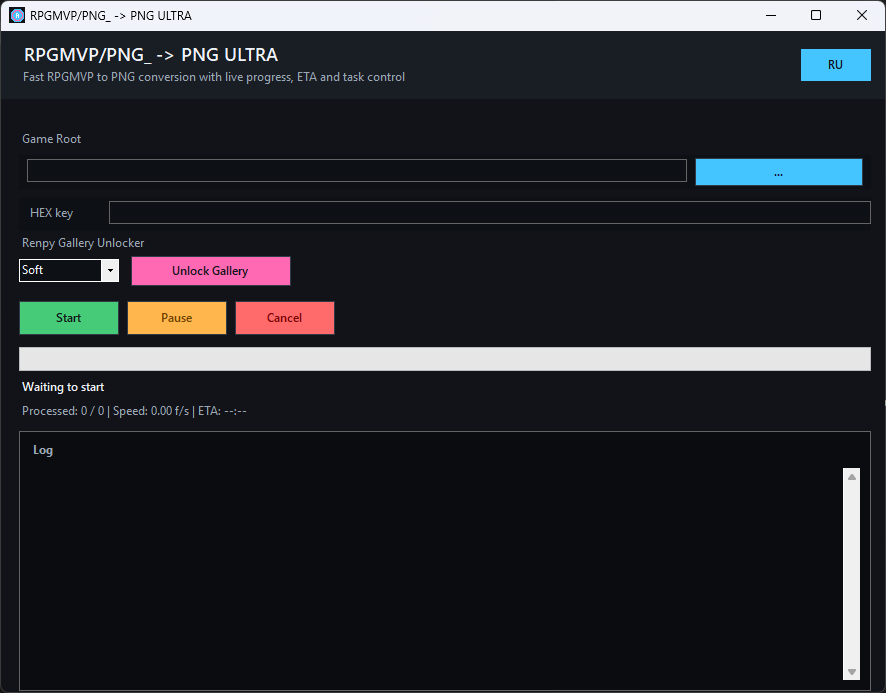
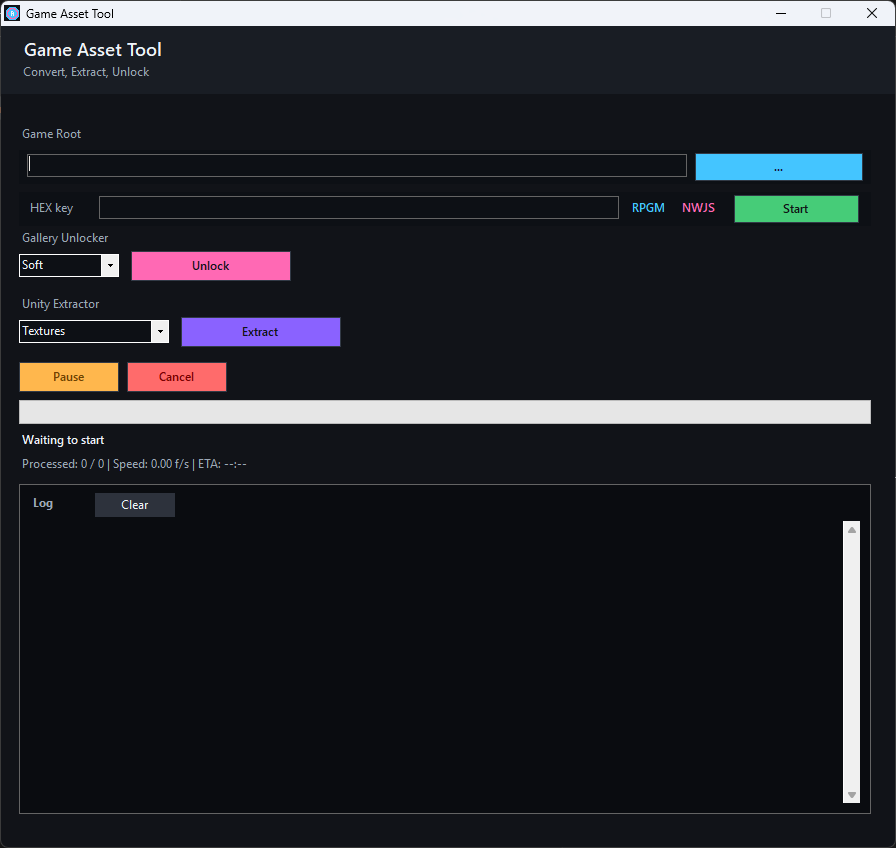
Cleanup and rename to Game Asset Tool
- Rename app to 'Game Asset Tool'
- Update README with screenshot
- Remove unnecessary files (.csproj, generate_unlocker.ps1, unlocker_*.json)
- Remove GitHub workflows
- New layout: HEX key row with RPGM/NWJS labels and Start button
- Pause/Cancel above progress bar

diff --git a/RpgmvpConverterForm.cs b/RpgmvpConverterForm.cs
@@ -84,7 +84,7 @@ namespace RpgmvpConverterWinForms
             Font titleFont = new Font("Segoe UI Semibold", 13f, FontStyle.Regular);
             Font logFont = new Font("Consolas", 10f, FontStyle.Regular);
 
-            Text = "RPGMVP/PNG_ -> PNG ULTRA";
+            Text = "Game Asset Tool";
             StartPosition = FormStartPosition.CenterScreen;
             MinimumSize = new Size(900, 850);
             Size = new Size(900, 850);
@@ -106,7 +106,7 @@ namespace RpgmvpConverterWinForms
 
             titleLabel = new Label
             {
-                Text = "RPGMVP/PNG_ -> PNG ULTRA",
+                Text = "Game Asset Tool",
                 Font = titleFont,
                 ForeColor = textColor,
                 Location = new Point(18, 10),
@@ -117,7 +117,7 @@ namespace RpgmvpConverterWinForms
 
             subtitleLabel = new Label
             {
-                Text = "Fast conversion + Unity Extractor + Unlocker",
+                Text = "Convert, Extract, Unlock",
                 ForeColor = mutedColor,
                 Location = new Point(19, 38),
                 Size = new Size(500, 20),
@@ -167,22 +167,6 @@ namespace RpgmvpConverterWinForms
 
             y += 42;
 
-            startButton = CreateButton("Start", new Point(18, y), new Size(100, 34), successColor, formBack, uiBold);
-            startButton.Click += async delegate { await StartConversionAsync(); };
-            Controls.Add(startButton);
-
-            pauseButton = CreateButton("Pause", new Point(126, y), new Size(100, 34), warningColor, Color.Black, uiBold);
-            pauseButton.Enabled = false;
-            pauseButton.Click += delegate { TogglePause(); };
-            Controls.Add(pauseButton);
-
-            cancelButton = CreateButton("Cancel", new Point(234, y), new Size(100, 34), dangerColor, textColor, uiBold);
-            cancelButton.Enabled = false;
-            cancelButton.Click += delegate { CancelConversion(); };
-            Controls.Add(cancelButton);
-
-            y += 42;
-
             Panel keyPanel = new Panel
             {
                 Location = new Point(18, y),
@@ -197,7 +181,7 @@ namespace RpgmvpConverterWinForms
             {
                 Text = "HEX key",
                 Location = new Point(8, 8),
-                Size = new Size(80, 20),
+                Size = new Size(70, 20),
                 ForeColor = mutedColor,
                 BackColor = Color.Transparent
             };
@@ -205,8 +189,8 @@ namespace RpgmvpConverterWinForms
 
             keyBox = new TextBox
             {
-                Location = new Point(90, 4),
-                Size = new Size(660, 26),
+                Location = new Point(80, 4),
+                Size = new Size(520, 26),
                 BackColor = inputBack,
                 ForeColor = textColor,
                 BorderStyle = BorderStyle.FixedSingle,
@@ -217,7 +201,7 @@ namespace RpgmvpConverterWinForms
             engineRpgmLabel = new Label
             {
                 Text = "RPGM",
-                Location = new Point(755, 8),
+                Location = new Point(610, 8),
                 Size = new Size(45, 20),
                 ForeColor = Color.FromArgb(68, 197, 255),
                 BackColor = Color.Transparent,
@@ -228,13 +212,17 @@ namespace RpgmvpConverterWinForms
             engineNwjsLabel = new Label
             {
                 Text = "NWJS",
-                Location = new Point(805, 8),
+                Location = new Point(660, 8),
                 Size = new Size(45, 20),
                 ForeColor = Color.FromArgb(255, 105, 180),
                 BackColor = Color.Transparent,
                 Font = uiBold
             };
             keyPanel.Controls.Add(engineNwjsLabel);
+
+            startButton = CreateButton("Start", new Point(715, 3), new Size(125, 28), successColor, formBack, uiBold);
+            startButton.Click += async delegate { await StartConversionAsync(); };
+            keyPanel.Controls.Add(startButton);
 
             y += 38;
 
@@ -300,6 +288,18 @@ namespace RpgmvpConverterWinForms
             Controls.Add(unityExtractButton);
 
             y += 42;
+
+            pauseButton = CreateButton("Pause", new Point(18, y), new Size(100, 30), warningColor, Color.Black, uiBold);
+            pauseButton.Enabled = false;
+            pauseButton.Click += delegate { TogglePause(); };
+            Controls.Add(pauseButton);
+
+            cancelButton = CreateButton("Cancel", new Point(126, y), new Size(100, 30), dangerColor, textColor, uiBold);
+            cancelButton.Enabled = false;
+            cancelButton.Click += delegate { CancelConversion(); };
+            Controls.Add(cancelButton);
+
+            y += 38;
 
             progressBar = new ProgressBar
             {

diff --git a/README.md b/README.md
@@ -1,8 +1,10 @@
-# RPGMVP/PNG_ -> PNG ULTRA
+# Game Asset Tool
 
-Fast RPGMVP to PNG converter + **Unity Asset Extractor** + **Gallery Unlocker** with full **En/Ru localization**.
+![Screenshot](screenshot.png)
 
-![Version](https://img.shields.io/badge/version-1.1.0-blue)
+Fast converter for **RPGMVP**, **Unity** and **Gallery Unlocker** for **NWJS/Renpy** games.
+
+![Version](https://img.shields.io/badge/version-1.2.0-blue)
 ![.NET](https://img.shields.io/badge/.NET-4.0-blue)
 ![Python](https://img.shields.io/badge/Python-3.x-green)
 
@@ -11,7 +13,6 @@ Fast RPGMVP to PNG converter + **Unity Asset Extractor** + **Gallery Unlocker** 
 - **RPGMVP to PNG Conversion** - Fast conversion with live progress, ETA and task control (pause/cancel)
 - **Unity Asset Extractor** - Extract textures from Unity games (.assets, .bundle files)
 - **Gallery Unlocker** - Unlock galleries in Renpy/NWJS games
-- **En/Ru Localization** - Switch between English and Russian
 - **Auto-detection** - Automatically detects game type and root folder
 
 ## Requirements
@@ -28,14 +29,14 @@ pip install UnityPy
 
 ## Download
 
-**Full Version:** [RpgmvpConverterWinForms.exe](https://github.com/SANCHEI/Rpgm-NWJS-Renpy-Converter-tool/releases)
+**Full Version:** [GameAssetTool.exe](https://github.com/SANCHEI/Rpgm-NWJS-Renpy-Converter-tool/releases)
 
 For **Unity games only**, use the lighter version: [UnityAssetExtractor.exe](https://github.com/SANCHEI/Rpgm-NWJS-Renpy-Converter-tool/releases/tag/v1.1.0-unity)
 
 ## Supported Games
 
 ### RPG Maker MV/MZ
-- RPGMVP encryption (RPGM label)
+- RPGMVP encryption
 - Custom HEX key support
 - Auto key detection
 
@@ -46,7 +47,7 @@ For **Unity games only**, use the lighter version: [UnityAssetExtractor.exe](htt
 - Real-time progress with ETA
 
 ### Renpy/NWJS Games
-- Gallery unlocker (NWJS label)
+- Gallery unlocker
 - NWJS process detection
 
 ## Supported Engines
@@ -65,37 +66,18 @@ For **Unity games only**, use the lighter version: [UnityAssetExtractor.exe](htt
 ### Unity Extraction
 1. Select Unity game folder (auto-detected)
 2. Choose extraction mode: Textures / Videos / All
-3. Click "Extract Unity"
+3. Click "Extract"
 4. Find extracted files in `game_folder/extracted/`
 
 ### Gallery Unlocker
 1. Select game folder
-2. Choose game type: Renpy / NWJS
+2. Choose game type: Soft / Hard
 3. Click "Unlock"
 
 ## Keyboard Shortcuts
 
 - **Ctrl+A** in logs - Select all
 - **Ctrl+C** in logs - Copy selected
-
-## Screenshots
-
-```
-┌─────────────────────────────────────────────────────┐
-│  RPGMVP/PNG_ -> PNG ULTRA                           │
-│  Fast conversion + Unity Extractor + Unlocker        │
-├─────────────────────────────────────────────────────┤
-│  Game Root: [D:\Games\MyGame            ] [G] [...] │
-│  HEX key:   [xxxxxxxxxxxxxxxx        ] RPGM NWJS  │
-│  [▶ Start]  [⏸ Pause]  [✕ Cancel]                   │
-├─────────────────────────────────────────────────────┤
-│  Renpy Gallery Unlocker: [Renpy ▾] [Unlock]        │
-│  Unity Asset Extractor: [Textures ▾] [Extract]     │
-├─────────────────────────────────────────────────────┤
-│  Progress: ████████████░░░░░░░░ 67%                │
-│  Processed: 156 / 233 | Speed: 12.5 f/s | ETA: 00:06│
-└─────────────────────────────────────────────────────┘
-```
 
 ## Building from Source
 
